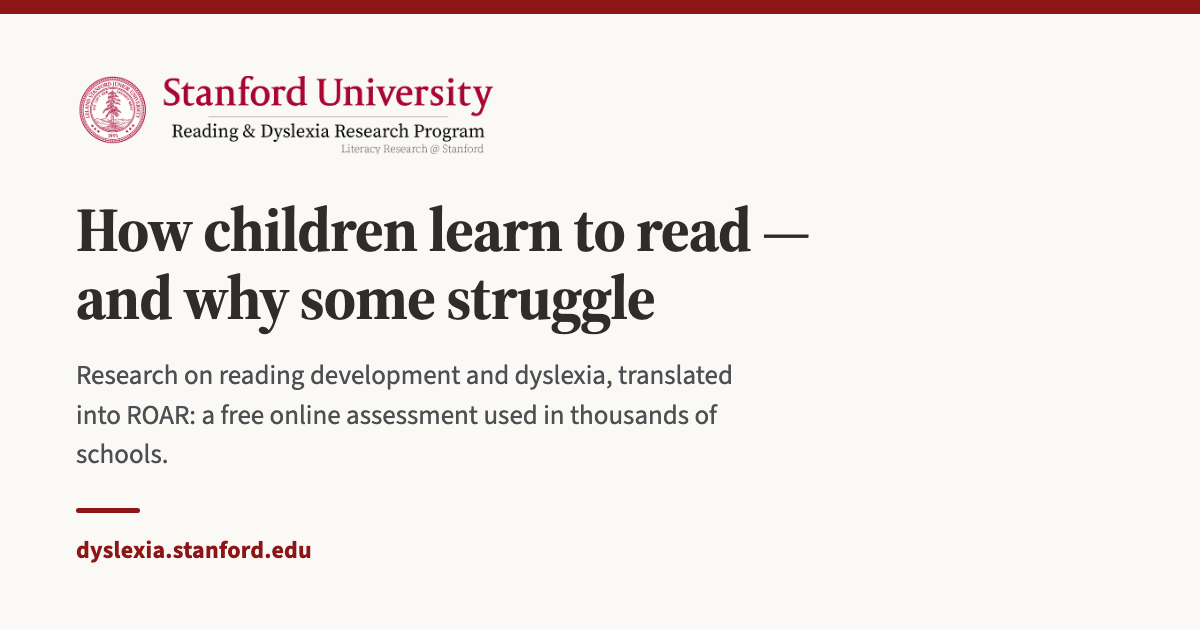
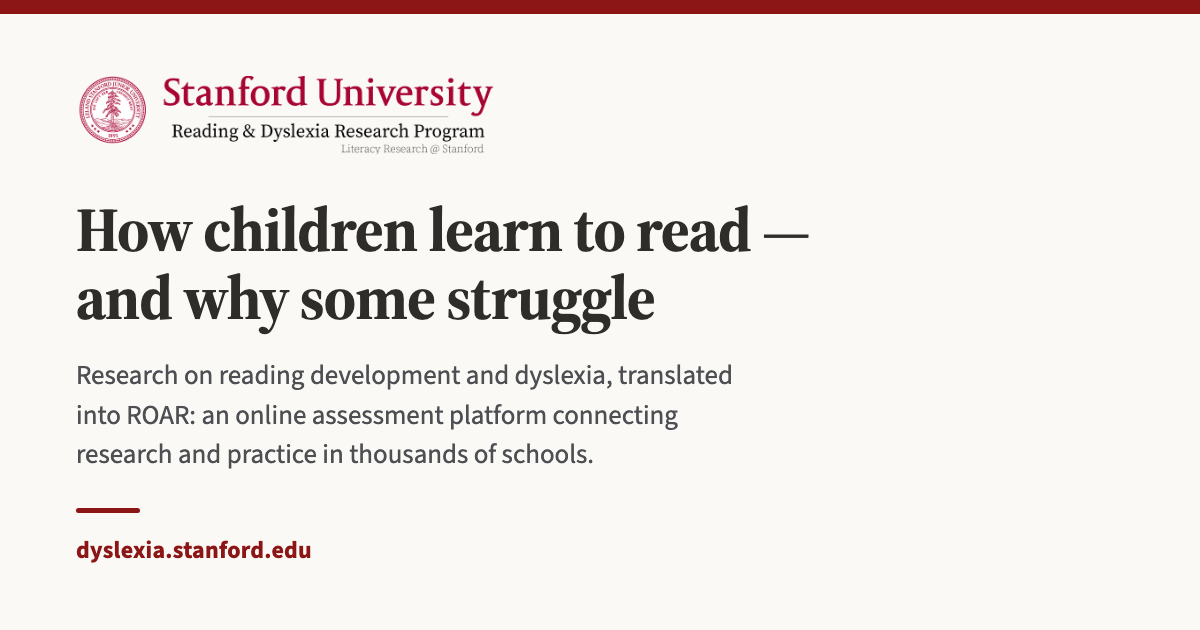
Reword ROAR on the share card, drop the citation-count parenthetical
ROAR is now "an online assessment platform connecting research and
practice in thousands of schools" on the rdrp card, and in the page
description that Google shows as the search snippet — the same string
appears in three meta tags. Left the other ROAR copy alone: ROAR@Home
really is free for families, and the software blurb is about the platform.

Adds tools/build-social-cards.py so the cards are reproducible; their
text lives there rather than only inside a PNG.

Changed region(s): [[0.0617, 0.6333, 0.6167, 0.754]]

diff --git a/rdrp.html b/rdrp.html
@@ -4,13 +4,13 @@
 <meta charset="UTF-8" />
 <meta name="viewport" content="width=device-width, initial-scale=1.0" />
 <title>Reading &amp; Dyslexia Research Program — Yeatman Lab, Stanford University</title>
-<meta name="description" content="The Reading & Dyslexia Research Program at Stanford studies how children and adults learn to read and why some struggle, translating that research into ROAR, a free online reading assessment used in thousands of schools." />
+<meta name="description" content="The Reading & Dyslexia Research Program at Stanford studies how children and adults learn to read and why some struggle, translating that research into ROAR, an online assessment platform connecting research and practice in thousands of schools." />
 <link rel="canonical" href="https://dyslexia.stanford.edu/" />
 <meta property="og:type" content="website" />
 <meta property="og:site_name" content="Reading & Dyslexia Research Program" />
 <meta property="og:url" content="https://dyslexia.stanford.edu/" />
 <meta property="og:title" content="Reading & Dyslexia Research Program — Stanford University" />
-<meta property="og:description" content="The Reading & Dyslexia Research Program at Stanford studies how children and adults learn to read and why some struggle, translating that research into ROAR, a free online reading assessment used in thousands of schools." />
+<meta property="og:description" content="The Reading & Dyslexia Research Program at Stanford studies how children and adults learn to read and why some struggle, translating that research into ROAR, an online assessment platform connecting research and practice in thousands of schools." />
 <meta property="og:image" content="https://dyslexia.stanford.edu/assets/social/rdrp.png" />
 <meta property="og:image:width" content="1200" />
 <meta property="og:image:height" content="630" />
@@ -18,7 +18,7 @@
 <meta property="og:locale" content="en_US" />
 <meta name="twitter:card" content="summary_large_image" />
 <meta name="twitter:title" content="Reading & Dyslexia Research Program — Stanford University" />
-<meta name="twitter:description" content="The Reading & Dyslexia Research Program at Stanford studies how children and adults learn to read and why some struggle, translating that research into ROAR, a free online reading assessment used in thousands of schools." />
+<meta name="twitter:description" content="The Reading & Dyslexia Research Program at Stanford studies how children and adults learn to read and why some struggle, translating that research into ROAR, an online assessment platform connecting research and practice in thousands of schools." />
 <meta name="twitter:image" content="https://dyslexia.stanford.edu/assets/social/rdrp.png" />
 <meta name="twitter:image:alt" content="Reading & Dyslexia Research Program at Stanford University: how children learn to read, and why some struggle." />
 <script type="application/ld+json">
@@ -559,7 +559,7 @@
   </footer>
 
   <script src="shared-data.js?v=62"></script>
-  <script src="site.js?v=82"></script>
+  <script src="site.js?v=83"></script>
   <script>initSite('rdrp', 'https://edneuro.stanford.edu/');</script>
 </body>
 </html>

diff --git a/site.js b/site.js
@@ -241,7 +241,7 @@ function renderPublications() {
     const totalCites = PUBLICATIONS.reduce(function (sum, p) { return sum + (p.citedBy || 0); }, 0);
     statsEl.innerHTML =
       '<div><span class="font-serif text-2xl font-bold">' + PUBLICATIONS.length + '</span> <span class="text-sm text-[#6B6560]">publications</span></div>' +
-      '<div><span class="font-serif text-2xl font-bold">' + totalCites.toLocaleString() + '</span> <span class="text-sm text-[#6B6560]">citations (Google Scholar)</span></div>' +
+      '<div><span class="font-serif text-2xl font-bold">' + totalCites.toLocaleString() + '</span> <span class="text-sm text-[#6B6560]">citations</span></div>' +
       '<div><span class="font-serif text-2xl font-bold">' + years[years.length - 1] + '–' + years[0] + '</span> <span class="text-sm text-[#6B6560]">span</span></div>';
   }
 

diff --git a/parents.html b/parents.html
@@ -246,7 +246,7 @@
   </footer>
 
   <!-- Only the mobile nav needs scripting here; nothing on this page is data-driven. -->
-  <script src="site.js?v=82"></script>
+  <script src="site.js?v=83"></script>
   <script>setupMobileNav();</script>
 </body>
 </html>

diff --git a/bde.html b/bde.html
@@ -692,7 +692,7 @@
   </footer>
 
   <script src="shared-data.js?v=62"></script>
-  <script src="site.js?v=82"></script>
+  <script src="site.js?v=83"></script>
   <script>initSite('bde', 'https://dyslexia.stanford.edu/');</script>
 </body>
 </html>

diff --git a/tools/build-social-cards.py b/tools/build-social-cards.py
@@ -1,0 +1,101 @@
+#!/usr/bin/env python3
+"""Render the 1200x630 Open Graph share cards in assets/social/.
+
+The cards are generated, not hand-drawn, so this file is the source of truth for
+their text. Edit CARDS below and re-run; requires Google Chrome.
+
+    python3 tools/build-social-cards.py
+
+Cards use the same official lockups as the page headers (rdrp-seal.png,
+bde-banner.png) — deliberately NOT rdrp-mark.png, which is the bare Stanford
+seal and appears nowhere on the site. Keep the `url` line matching the page's
+<link rel="canonical">: the two main pages canonicalize to their bare domain
+roots so no internal acronym is ever public-facing.
+"""
+import os, shutil, subprocess, sys, tempfile, time
+
+CARDS = [
+ dict(out='rdrp', accent='#8C1515', lock='assets/logos/rdrp-seal.png', lockh=78,
+      title='How children learn to read —<br>and why some struggle',
+      sub='Research on reading development and dyslexia, translated into ROAR: '
+          'an online assessment platform connecting research and practice in thousands of schools.',
+      url='dyslexia.stanford.edu', photo=''),
+ dict(out='bde', accent='#007C92', lock='assets/logos/bde-banner.png', lockh=86,
+      title='Neuroscience and education,<br>in a virtuous cycle',
+      sub='We use education to understand how experience shapes the developing brain, '
+          'and neuroscience to understand learning differences.',
+      url='edneuro.stanford.edu', photo=''),
+ dict(out='parents', accent='#8C1515', lock='assets/logos/rdrp-seal.png', lockh=78,
+      title='Resources for Parents',
+      sub='Guides, advocacy groups, evaluation services, and intervention programs '
+          'for families navigating a dyslexia diagnosis.',
+      url='dyslexia.stanford.edu/parents', photo=''),
+ dict(out='yeatman', accent='#8C1515', lock='assets/logos/rdrp-seal.png', lockh=78,
+      title='Jason D. Yeatman, Ph.D.',
+      sub='Director, Yeatman Lab. Associate Professor of Developmental &amp; Behavioral '
+          'Pediatrics, Education, and Psychology at Stanford.',
+      url='dyslexia.stanford.edu/yeatman', photo='assets/people/jason-yeatman.jpg'),
+]
+
+TPL = '''<!DOCTYPE html><html><head><meta charset="utf-8">
+<link href="https://fonts.googleapis.com/css2?family=Source+Serif+4:opsz,wght@8..60,600;8..60,700&family=Source+Sans+3:wght@400;600;700;800&display=swap" rel="stylesheet">
+<style>
+ *{{margin:0;padding:0;box-sizing:border-box}}
+ body{{width:1200px;height:630px;background:#FAF9F6;font-family:'Source Sans 3',sans-serif;overflow:hidden}}
+ .bar{{height:14px;background:{accent}}}
+ .body{{height:616px;display:flex;align-items:center;gap:60px;padding:0 76px}}
+ .txt{{flex:1;min-width:0;display:flex;flex-direction:column}}
+ .lock{{height:{lockh}px;width:auto;object-fit:contain;align-self:flex-start;margin-bottom:42px}}
+ h1{{font-family:'Source Serif 4',serif;font-weight:700;font-size:{h1}px;line-height:1.1;color:#2E2D29;
+   letter-spacing:-.015em}}
+ .sub{{font-size:27px;line-height:1.45;color:#4D4F53;margin-top:24px;max-width:{subw}ch}}
+ .rule{{width:64px;height:5px;background:{accent};border-radius:3px;margin-top:34px}}
+ .url{{font-size:24px;font-weight:700;color:{accent};margin-top:20px;letter-spacing:.01em}}
+ .photo{{flex:none;width:270px;height:270px;border-radius:50%;object-fit:cover;
+   box-shadow:0 8px 30px rgba(0,0,0,.18)}}
+</style></head><body>
+ <div class="bar"></div>
+ <div class="body">
+   <div class="txt">
+     <img class="lock" src="{lock}" alt="">
+     <h1>{title}</h1>
+     <div class="sub">{sub}</div>
+     <div class="rule"></div>
+     <div class="url">{url}</div>
+   </div>
+   {photoimg}
+ </div>
+</body></html>'''
+
+CHROME = '/Applications/Google Chrome.app/Contents/MacOS/Google Chrome'
+root = os.path.dirname(os.path.dirname(os.path.abspath(__file__)))
+os.chdir(root)
+os.makedirs('assets/social', exist_ok=True)
+only = sys.argv[1:]
+
+for c in CARDS:
+    if only and c['out'] not in only:
+        continue
+    photo = '<img class="photo" src="%s" alt="">' % c['photo'] if c['photo'] else ''
+    html = TPL.format(photoimg=photo, h1=58 if c['photo'] else 62,
+                      subw=38 if c['photo'] else 52, **c)
+    stage = '_og_%s.html' % c['out']
+    out = 'assets/social/%s.png' % c['out']
+    open(stage, 'w', encoding='utf-8').write(html)
+    if os.path.exists(out):
+        os.remove(out)
+    prof = tempfile.mkdtemp()
+    p = subprocess.Popen([CHROME, '--headless=new', '--disable-gpu', '--no-sandbox',
+        '--hide-scrollbars', '--force-device-scale-factor=1', '--virtual-time-budget=8000',
+        '--user-data-dir=' + prof, '--window-size=1200,630',
+        '--screenshot=' + out, 'file://%s/%s' % (root, stage)],
+        stdout=subprocess.DEVNULL, stderr=subprocess.DEVNULL)
+    for _ in range(25):
+        if os.path.exists(out) and os.path.getsize(out):
+            time.sleep(1)
+            break
+        time.sleep(1)
+    p.kill()
+    os.remove(stage)
+    shutil.rmtree(prof, ignore_errors=True)
+    print('  %-32s %.0f KB' % (out, os.path.getsize(out) / 1024))
